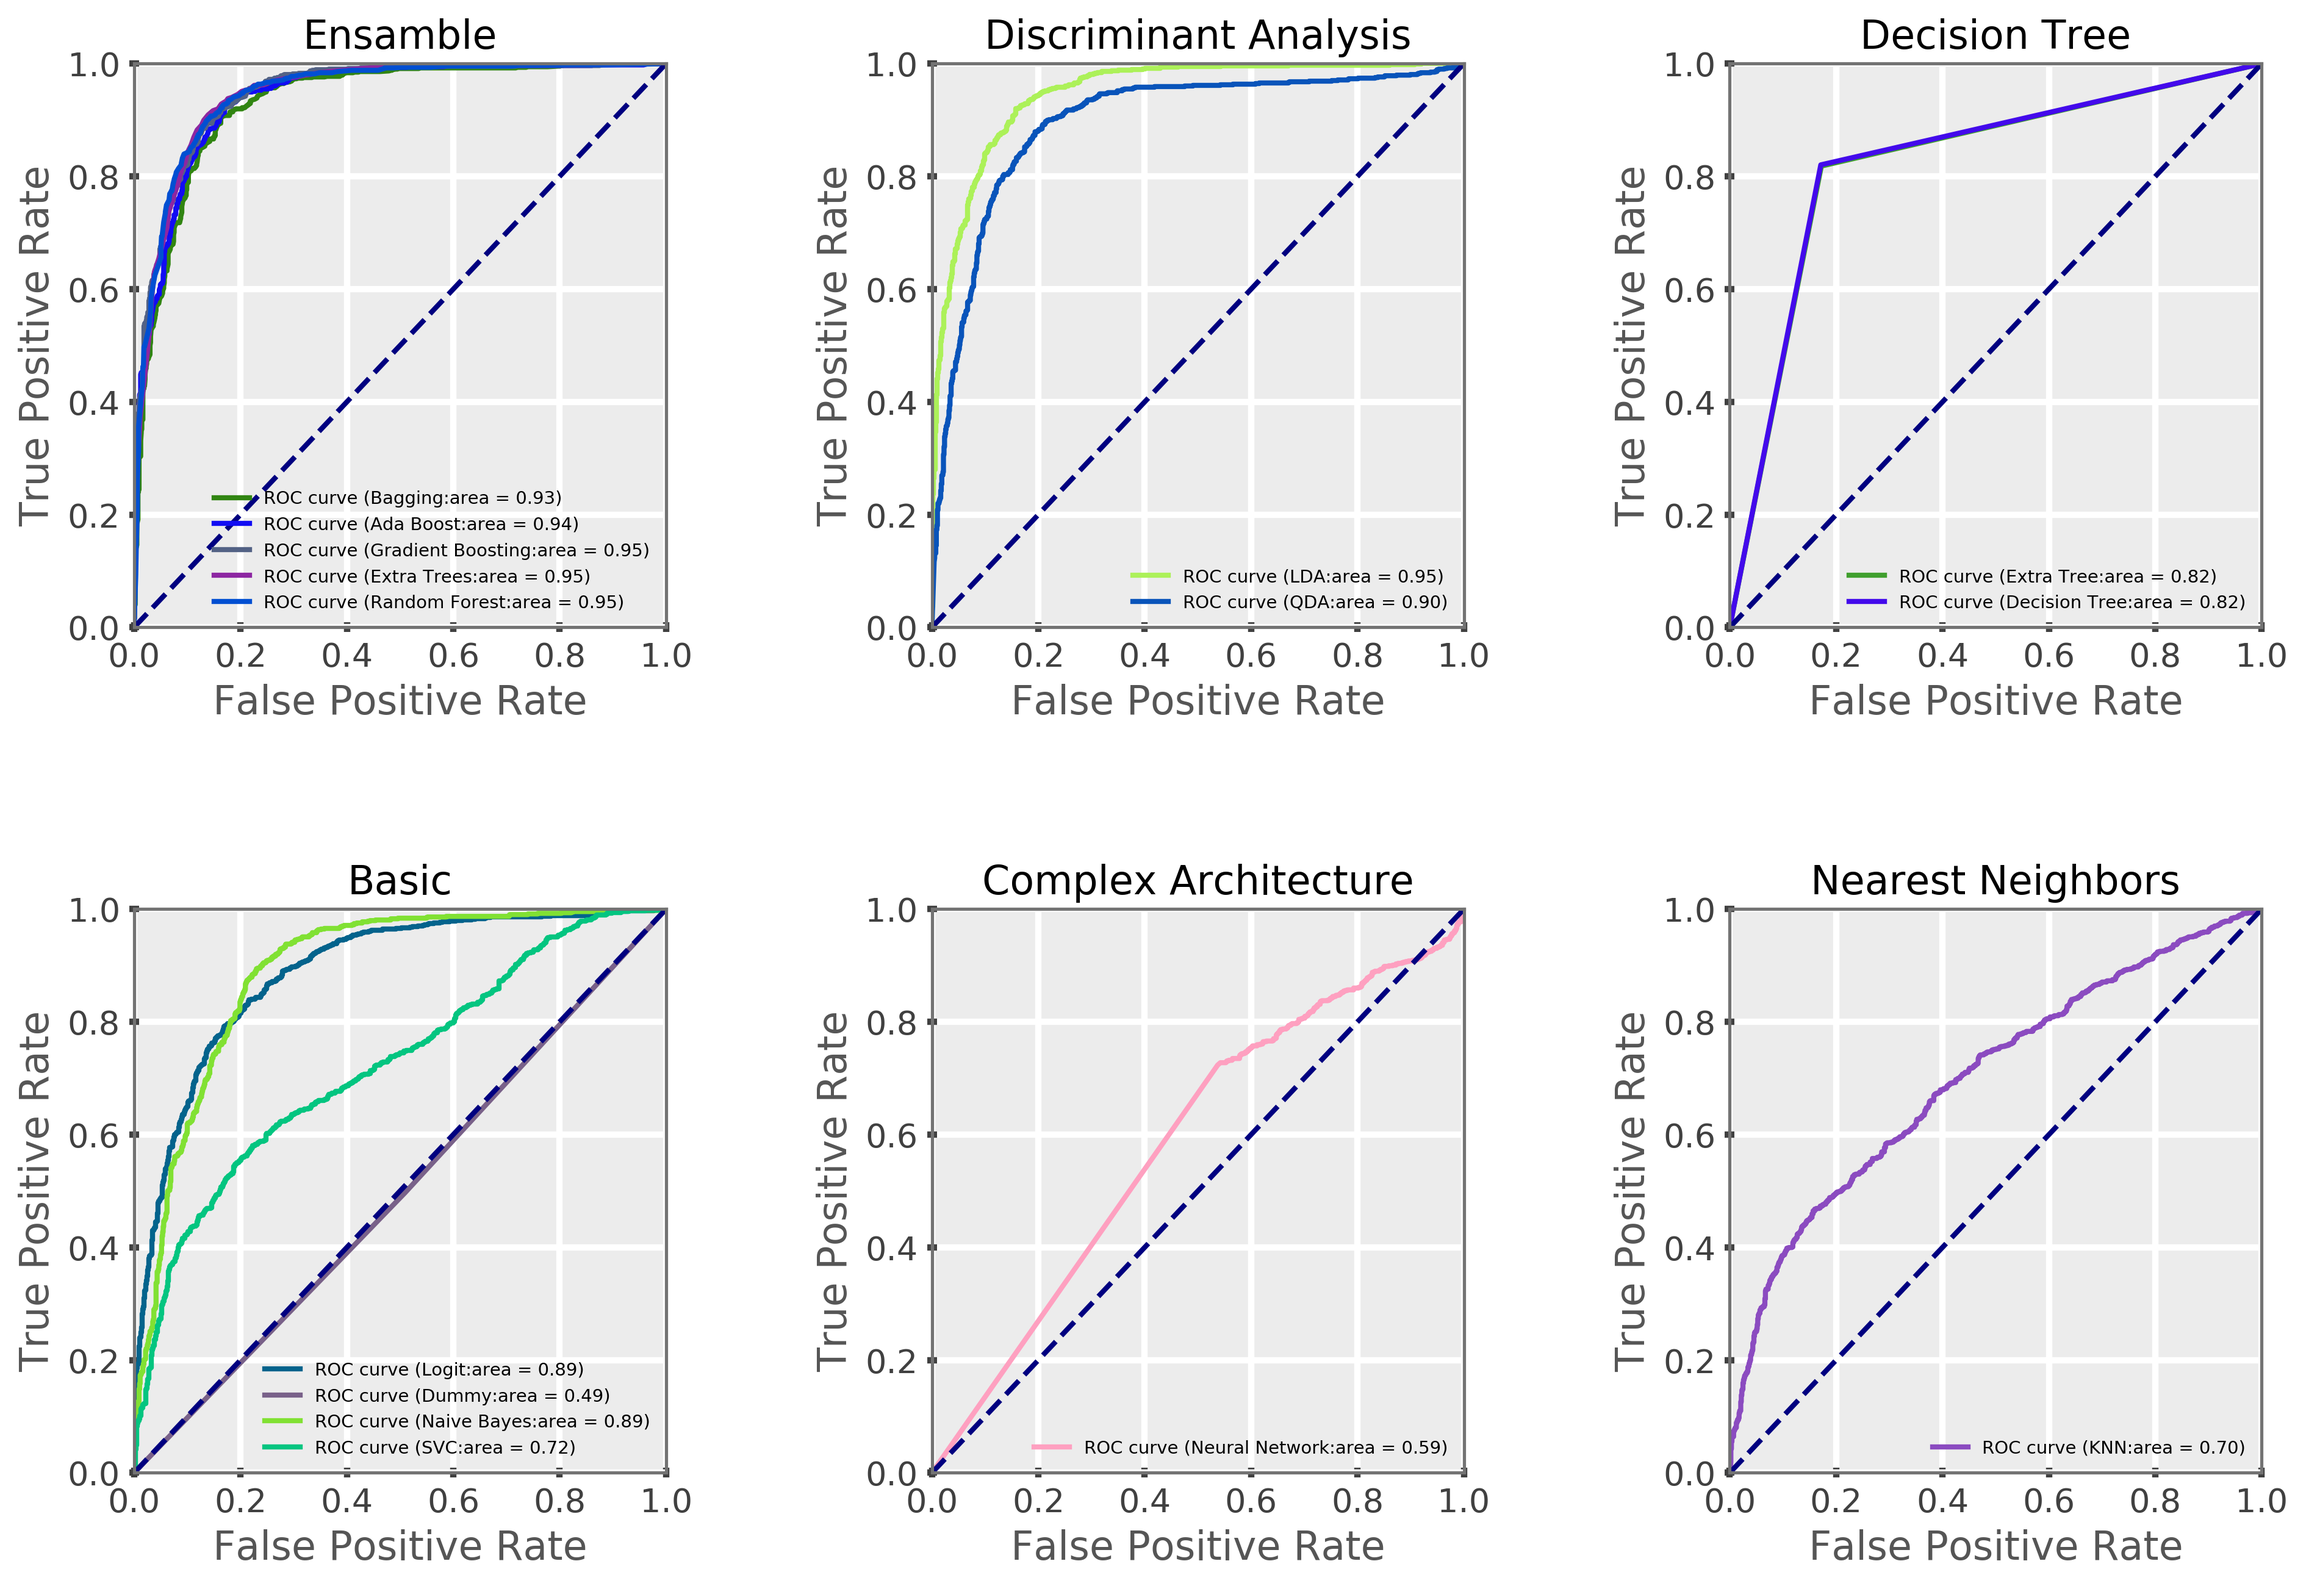
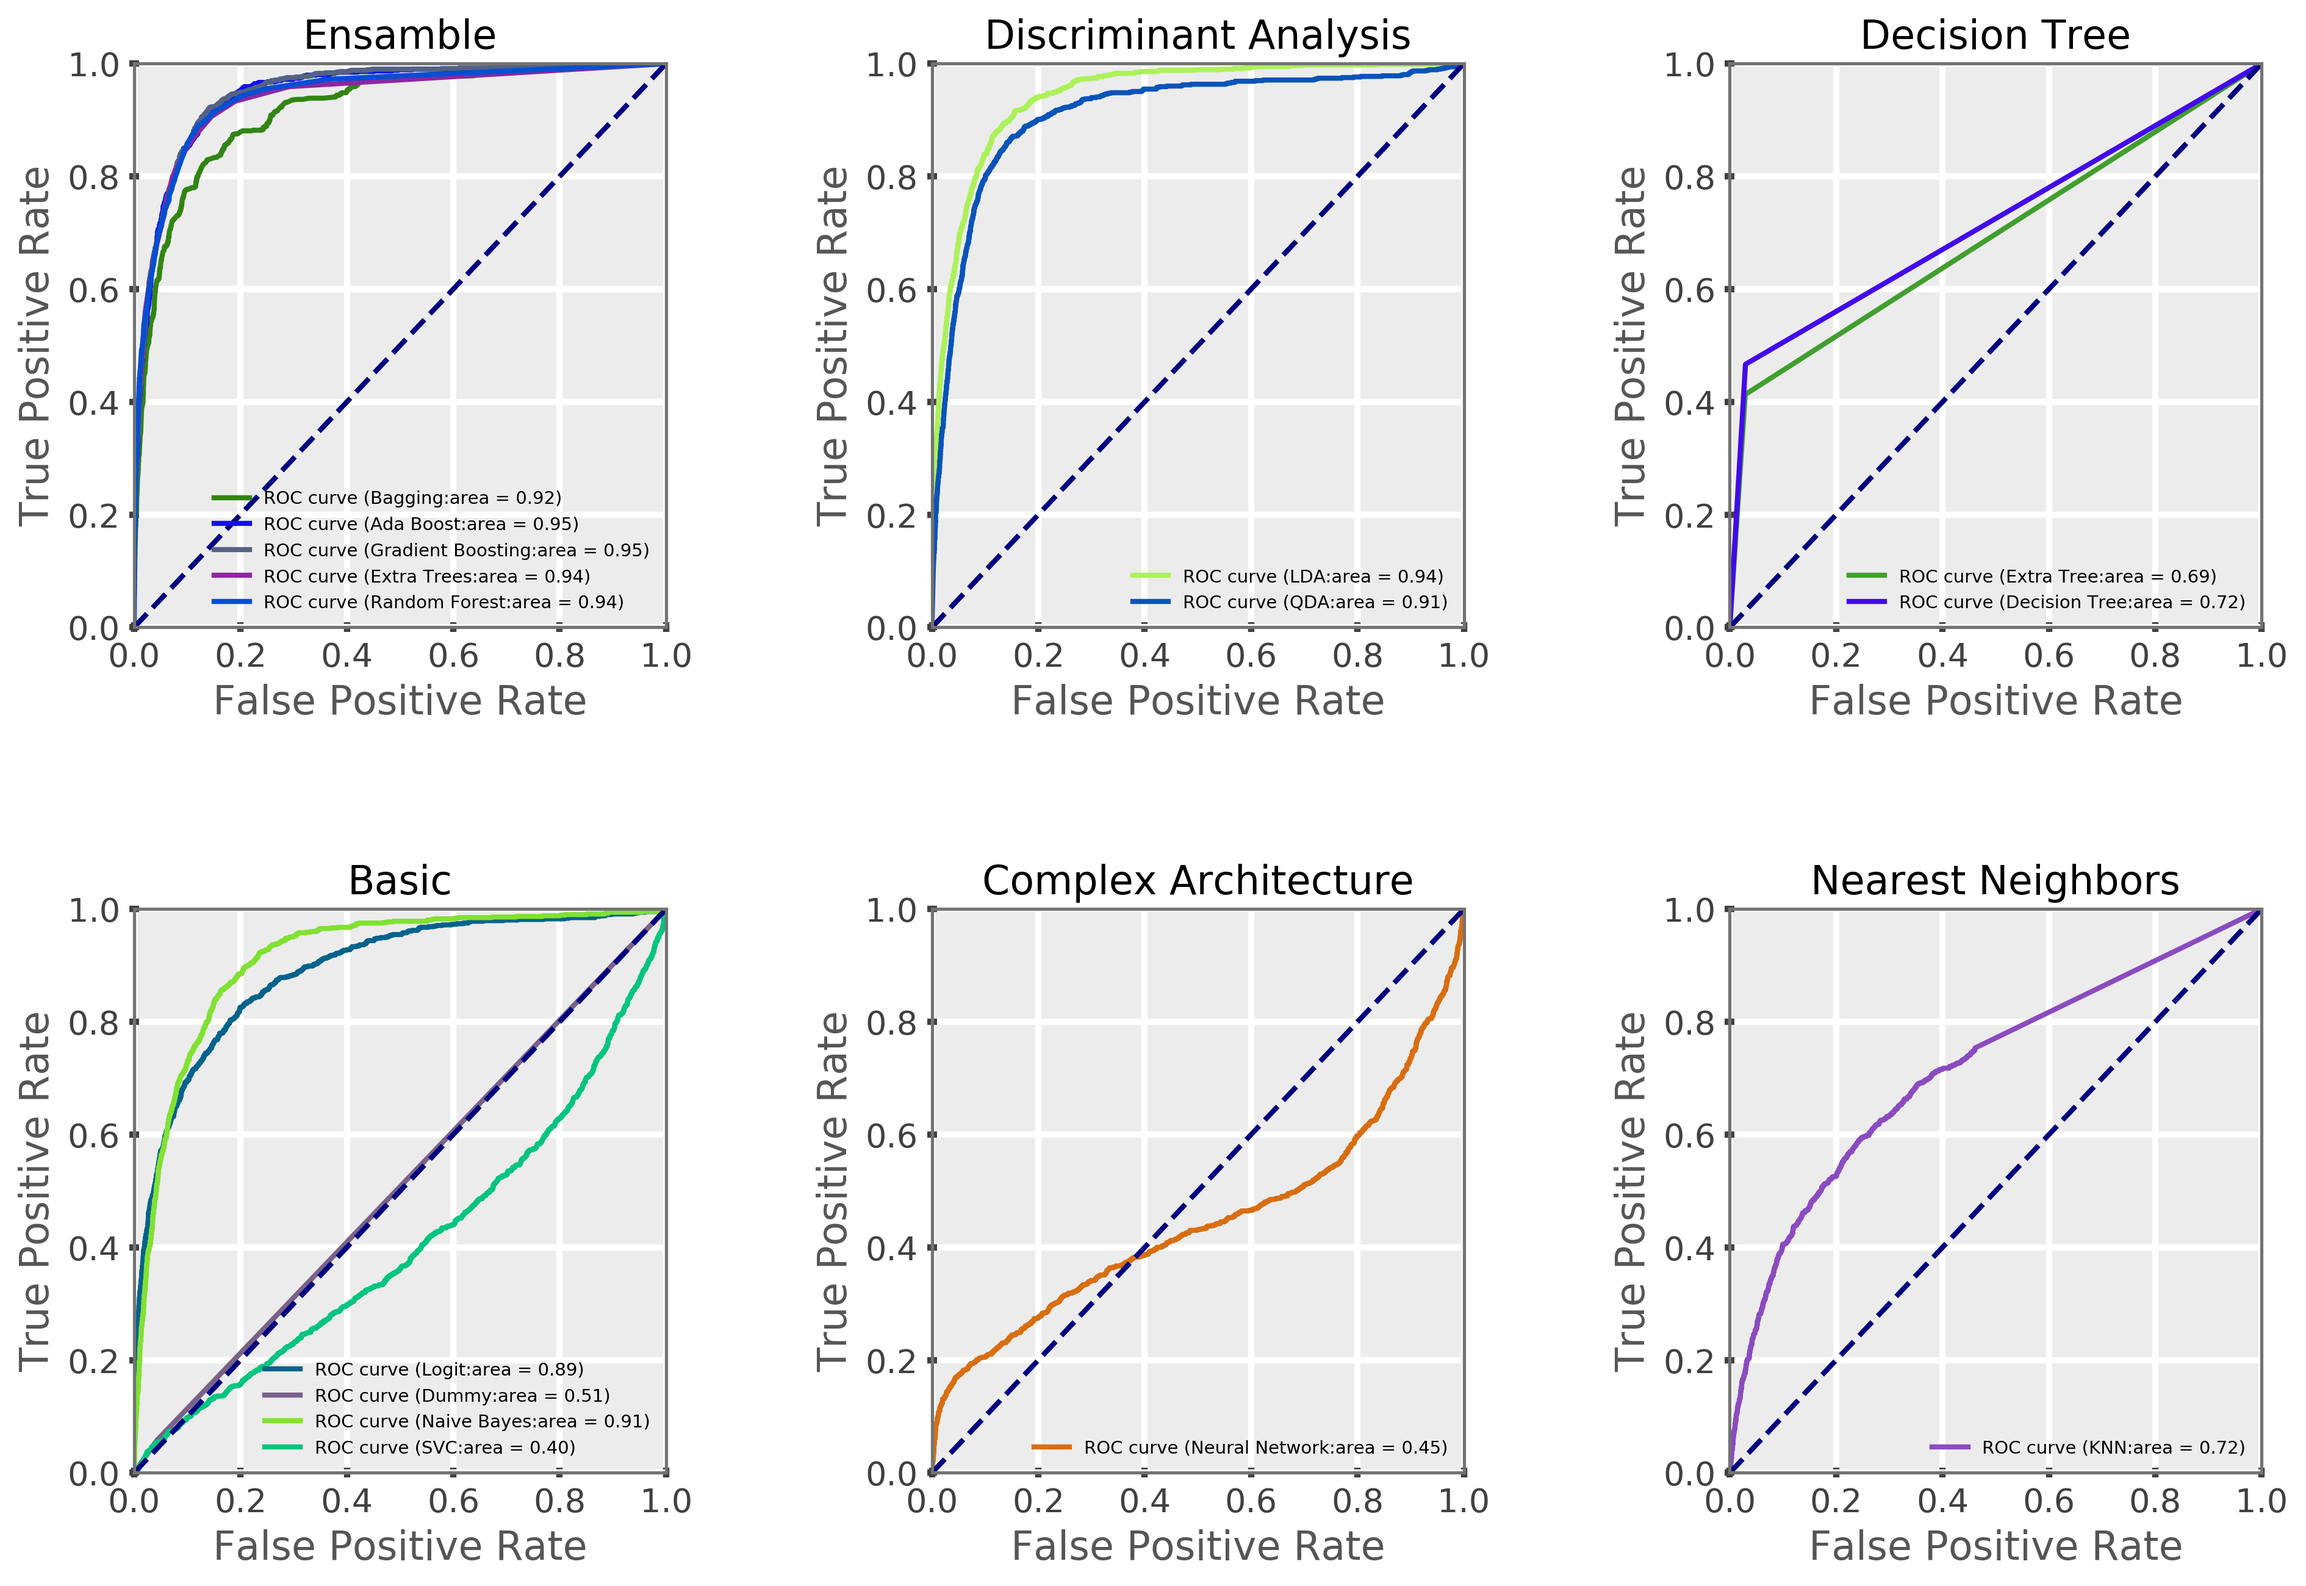
Figure

diff --git a/jobutil.py b/jobutil.py
@@ -21,10 +21,10 @@ def build_all_classifiers(goes):
     # Dataset
     if goes == "1": _xparams,X,y = db.load_data_for_deterministic_bin_clf()
     else: _xparams,X,y = db.load_data_with_goes_for_deterministic_bin_clf()
-    print(X)
     rus = RandomUnderSampler(return_indices=True)
     X_resampled, y_resampled, idx_resampled = rus.fit_sample(X, y)
-    X_train, X_test, y_train, y_test = train_test_split(X_resampled, y_resampled, test_size=1.0/3.0, random_state=42)
+    X_train, X_test, y_train, y_test = train_test_split(X, y[:,0], test_size=1.0/3.0, random_state=42)
+    #X_train, X_test, y_train, y_test = train_test_split(X_resampled, y_resampled, test_size=1.0/3.0, random_state=42)
 
     # Initialize metrix
     CLF = util.get_classifiers()
